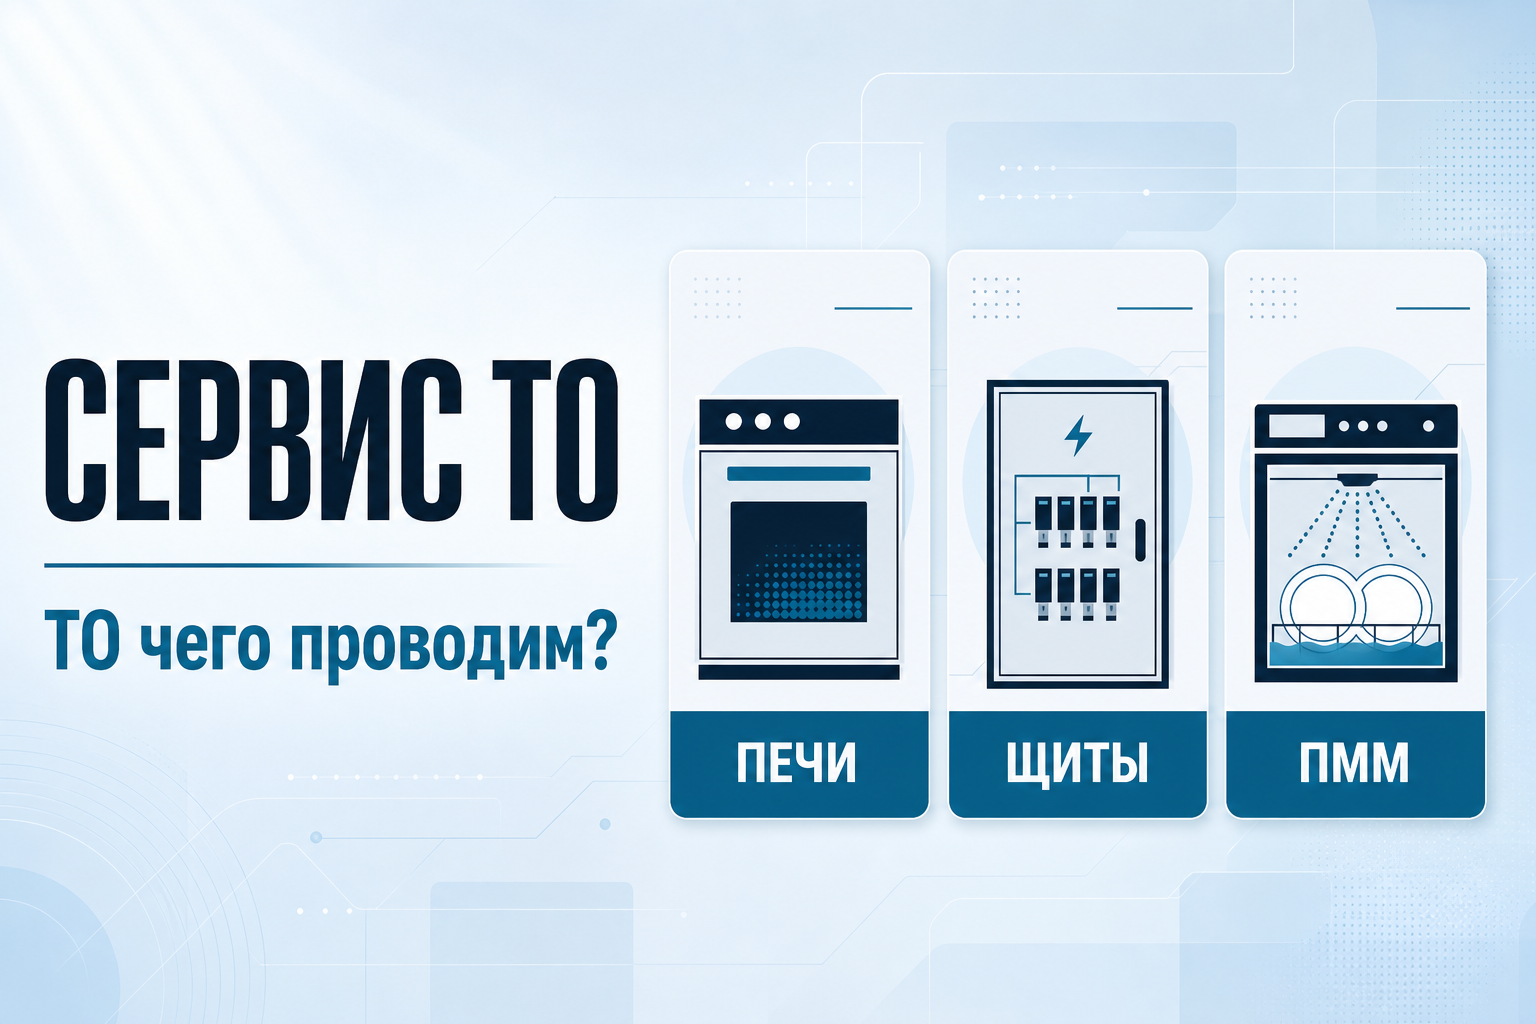
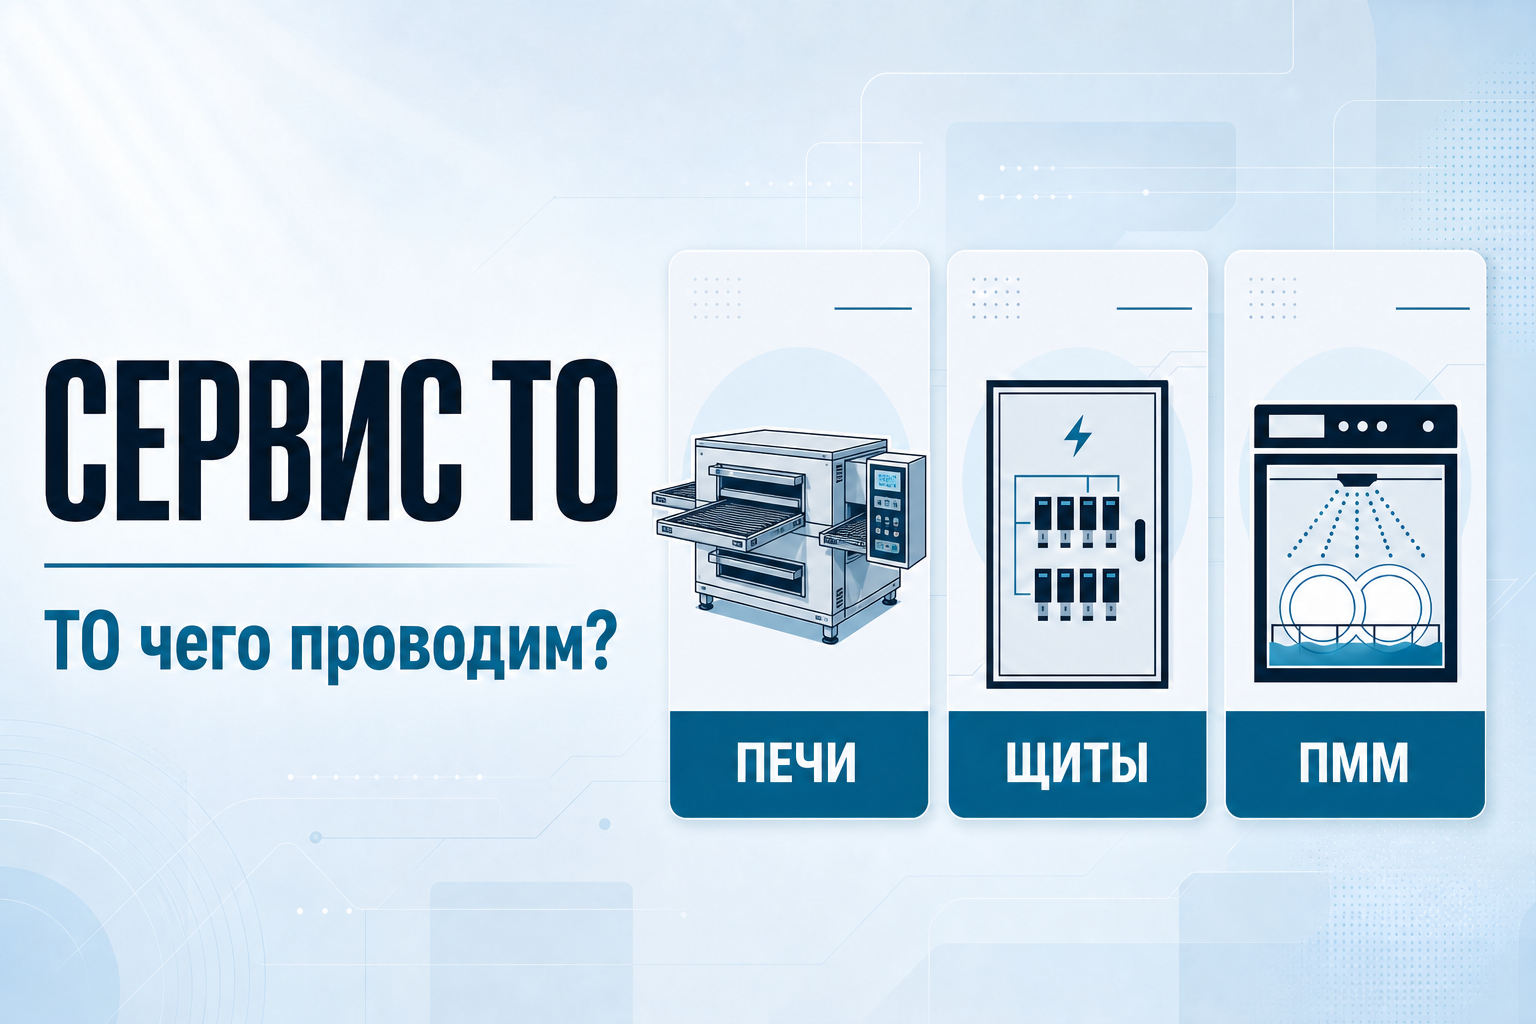
Add RIK LAB branding and commercial oven preview

diff --git a/app/globals.css b/app/globals.css
@@ -69,18 +69,17 @@ button { font: inherit; }
   letter-spacing: -0.02em;
 }
 
-.brand-mark {
-  width: 38px;
-  height: 38px;
-  display: grid;
-  place-items: center;
-  border: 1px solid var(--line);
+.brand-logo {
+  width: 42px;
+  height: 42px;
   border-radius: 12px;
-  background: var(--surface);
-  color: var(--accent);
-  font-size: 12px;
-  letter-spacing: 0.04em;
+  object-fit: cover;
+  box-shadow: 0 8px 20px rgba(8, 33, 48, 0.16);
 }
+
+.brand-copy { display: grid; gap: 1px; }
+.brand-copy strong { font-size: 14px; letter-spacing: 0.055em; }
+.brand-copy small { color: var(--muted); font-size: 10px; font-weight: 700; letter-spacing: 0.04em; }
 
 .theme-toggle {
   width: 46px;

diff --git a/app/page.tsx b/app/page.tsx
@@ -8,7 +8,7 @@ const serviceTypes = [
   {
     eyebrow: "Тепловое оборудование",
     title: "ТО печей",
-    description: "Осмотр, обслуживание и фиксация результатов по печам",
+    description: "Обслуживание пицца-печей XLT 3240 и Робошеф 3",
     href: "/to/ovens",
     mark: "ПЕЧЬ",
   },
@@ -55,9 +55,12 @@ export default function Home() {
   return (
     <main className="site-shell">
       <header className="topbar">
-        <a className="brand" href="/" aria-label="Сервис ТО — на главную">
-          <span className="brand-mark" aria-hidden="true">ТО</span>
-          <span>Сервис ТО</span>
+        <a className="brand" href="/" aria-label="РИК ЛАБ — Сервис ТО, на главную">
+          <img className="brand-logo" src="/rik-logo.png" alt="" width="42" height="42" />
+          <span className="brand-copy">
+            <strong>РИК ЛАБ</strong>
+            <small>Сервис ТО</small>
+          </span>
         </a>
         <button
           className="theme-toggle"

diff --git a/app/layout.tsx b/app/layout.tsx
@@ -18,7 +18,7 @@ export async function generateMetadata(): Promise<Metadata> {
     metadataBase: new URL(origin),
     title: "Сервис ТО — новый отчёт",
     description: "Мобильная форма отчётов о техническом обслуживании оборудования.",
-    icons: { icon: "/favicon.svg", shortcut: "/favicon.svg" },
+    icons: { icon: "/favicon.ico", shortcut: "/favicon.ico", apple: "/rik-logo.png" },
     openGraph: {
       title: "Сервис ТО — новый отчёт",
       description: "Выберите оборудование и заполните отчёт о техническом обслуживании.",